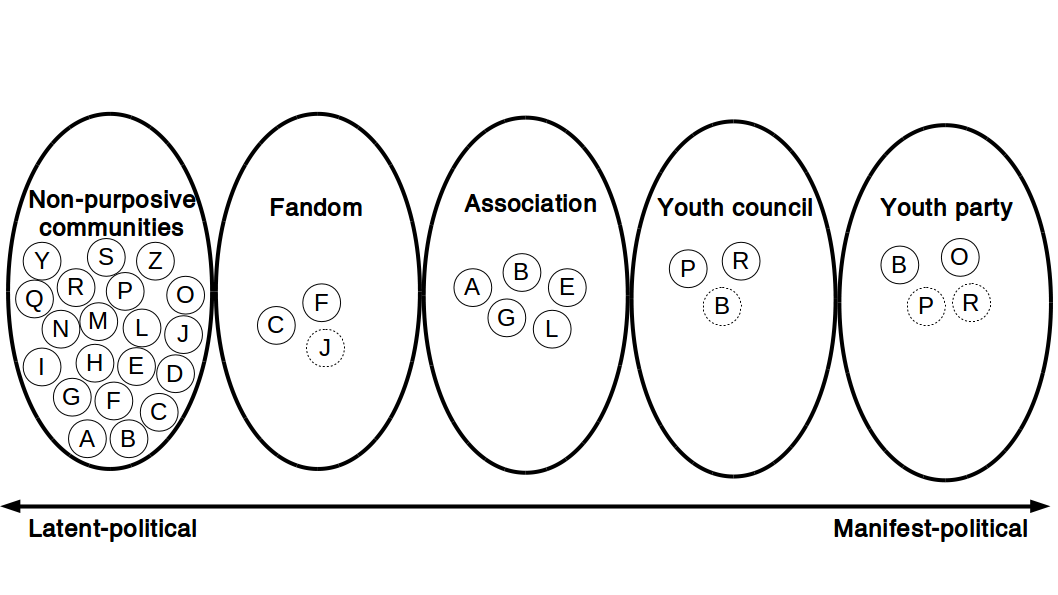
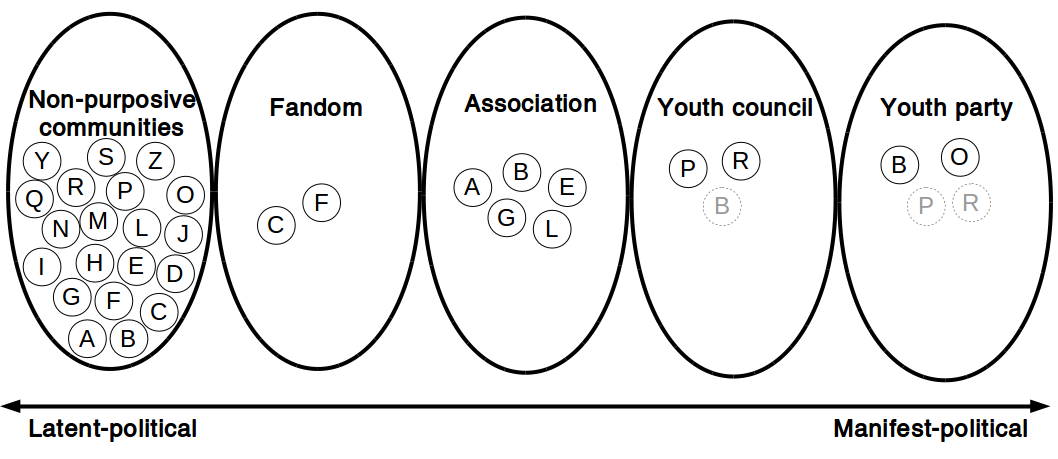
NYRIS 2019

diff --git a/nyris2019.html b/nyris2019.html
@@ -34,17 +34,17 @@
 <h2>Table of Contents</h2>
 <div id="text-table-of-contents">
 <ul>
-<li><a href="#/slide-org198ea6b">Pitfalls in the study of young people's political practices</a></li>
-<li><a href="#/slide-orge0c7fc0">How to explore political practices?</a></li>
-<li><a href="#/slide-orgefe2d6c">Unfolding the political</a></li>
-<li><a href="#/slide-orge1866a4">The political in different youth communities</a></li>
+<li><a href="#/slide-org710db50">Pitfalls in the study of young people's political practices</a></li>
+<li><a href="#/slide-orged7a610">How to explore political practices?</a></li>
+<li><a href="#/slide-orge472997">Unfolding the political</a></li>
+<li><a href="#/slide-org790b3b8">The political in different youth communities</a></li>
 </ul>
 </div>
 </div>
 </section>
 <section>
-<section id="slide-org198ea6b">
-<h2 id="org198ea6b">Pitfalls in the study of young people's political practices</h2>
+<section id="slide-org710db50">
+<h2 id="org710db50">Pitfalls in the study of young people's political practices</h2>
 
 <div class="figure">
 <p><img src="./images/pitfalls.png" alt="pitfalls.png" width="1000px" class="custom" />
@@ -52,21 +52,32 @@
 </div>
 
 <aside class="notes">
-nil
+<ul>
+<li>The first pitfall is to see young people's participatory practices as one generalized social phenomenon instead of seeing it as a class specific and contextualised phenomenon. A generalization could be 'the lazy youth' or 'the engaged youth' - but both generalizations ignore the class specific aspect of young people's political practices.</li>
+<li>The second pitfall is to see young people's participatory practices as a dichotomous phenomenon where the youth are either engaged or disengaged instead of seeing it as a complex and dynamic phenomenon where engagement and disengagement exist side by side.</li>
+<li>Sometimes it's difficult to say whether a specific practice is political or not. There can be practices that on the surface are apolitical, but below the surface something political is going on or is under construction. There can be young people who see themselves as not interested in politics but actually are doing something political.</li>
+<li>The third pitfall is to see young people's participatory practices as a phenomenon observed with old categories instead of exploring it from the youth's point of view today.</li>
+<li>We need to - as a complement to surveys - more explorative approaches with the use of young eyes where the political is not defined on beforehand.</li>
+
+</ul>
+
 </aside>
 
 </section>
 </section>
 <section>
-<section id="slide-orge0c7fc0">
-<h2 id="orge0c7fc0">How to explore political practices?</h2>
+<section id="slide-orged7a610">
+<h2 id="orged7a610">How to explore political practices?</h2>
 <aside class="notes">
-nil
+<p>
+.
+</p>
+
 </aside>
 
 </section>
-<section id="slide-org02d30db" data-background="images/phone_dark.jpg">
-<h3 id="org02d30db"></h3>
+<section id="slide-org5a999ee" data-background="images/phone_dark.jpg">
+<h3 id="org5a999ee"></h3>
 <h3 style="color:white">The photo elicitation interview</h3>
 
 <div style="color:white">
@@ -80,65 +91,92 @@ nil
 
 <aside class="notes">
 <ul>
-<li>To get an insigt into the participatory practices in the everyday life of young people I have used the photo elicitation interview. This is an explorative method - it can explore themes and phenomenons that the researcher don't know on beforehand. The concept is that the participants are asked to make a photo journal of their everyday life and show what is important for them. Then the photo journal form the basis for a qualitative interview with the participant and the photos provide a structure of the interview. Until now 18 interviews have been conducted with youth between 14 and 18 years old from Holbæk Municipality - both young people who are political organised and young people who are not.</li>
+<li>To get an insigt into the participatory practices in the everyday life of young people I have used the photo elicitation interview. This is an explorative method - it can explore themes and phenomenons that the researcher don't know on beforehand. The concept is that the participants are asked to make a photo journal of their everyday life and show what is important for them. Then the photo journal form the basis for a qualitative interview with the participant and the photos provide a structure of the interview.</li>
 <li>A <b>benefit</b> is that the method provides an entrance to how the political may be connected with everyday practices from the perspective of young people. The interview is structured by the photos from the youth - the youth decide what to talk about and how they want to present their every day life.</li>
 <li>A 2nd benefit is that it shows how engagement and an interest in the world we live can exist side by side with political apathy. It shows the how the 'non-engagement' captured by surveys may actually be an engagement.</li>
 <li>A 3rd benefit is that it shows how participatory practices is a differentiated and contexualised phenomenon. It helps connecting the research and theories of youth participation with concrete moments in everyday life practices - a specific moment containing time, space and sociality. The method can provide a bridge between analytical and statistical generalizations and concrete young peoples subjective experiences in concrete contexts.</li>
-<li>There is a <b>challenge</b> with selection bias. The young people have to sign up if they want to participate and in this signup process it can be difficult to handle the selection bias. It's not a question of statistical representativeness, but about securing a broad range of experiences and backgrounds. The selection bias is a challenge for all data collection involving a signup process, but there is something in this method with taking pictures and talking about you and your everyday life is that is more appealing to some than others. I assess the broadness of socio-economic backgrounds to be ok, but I'm e.g. experiencing a gender bias. Out of 18 interviews I have 5 boys and 13 girls.</li>
-<li>A 2nd challenge is the interview technique. Before the interviews I often only know their name, age, gender, where the live and eduction, and maybe they have sent their photo journal on beforehand. So the most of the questions get improvised during the interview. This is the case for many semi-structured interviews, but it's more distinct in this design because you basically don't know who you are talking with before the interview situation.</li>
-<li>A 3rd challenge is to find the needle in the hay stack. Let's take a look on one of my dataset&#x2026;</li>
 
 </ul>
 
 </aside>
+
 </section>
-<section id="slide-org2097e62">
-<h3 id="org2097e62">A continuum of the political (1)</h3>
+<section id="slide-orgb081ef6">
+<h3 id="orgb081ef6">A continuum of the political</h3>
 
 <div class="figure">
 <p><img src="./images/communities1.png" alt="communities1.png" width="1000px" class="custom" />
 </p>
 </div>
-</section>
-<section id="slide-org90f9203">
-<h3 id="org90f9203">A continuum of the political (2)</h3>
 
-<div class="figure">
-<p><img src="./images/communities2.png" alt="communities2.png" width="1000px" class="custom" />
-</p>
-</div>
-</section>
-</section>
-<section>
-<section id="slide-orgefe2d6c">
-<h2 id="orgefe2d6c">Unfolding the political</h2>
-<div class="outline-text-2" id="text-orgefe2d6c">
-</div>
-</section>
-<section id="slide-orgd94bcd2" data-background="images/hverdag_collage2.jpg">
-<h3 id="orgd94bcd2"></h3>
 <aside class="notes">
 <ul>
-<li>This is my dataset containing pictures from the everyday life of my participants. And the good question is where to find participatory practices in all these different everyday life practices?</li>
-<li>A good and bad thing with the everyday life perspective is that we can talk about everything. On the one side there is a lot of stories and experiences in all these picture providing an insight into the everyday life of young people. On the other side it can be difficult to assess what is relevant and what is not.</li>
-<li>The explorative approach is like a like fishing trip where sometimes you get something on the hook and sometimes you don't.</li>
+<li>20 young people from Holbæk Municipality between 14 and 18 years old have participated in the study - and they are a part of different youth communities.
+<ul>
+<li>All the particpants are a part of non-purposive communities: This is friendships and other communities without a specific purpose which</li>
+<li>2 of the participants are a part of fandoms. This is communities who share a common interest in a specific cultural phenomenon, e.g. metal music or cosplay.</li>
+<li>5 of the participants are a part of associations, e.g. sport or scout.</li>
+<li>2 of the participants are a part of a local youth council which is faciliated by the municipality and 1 is former member.</li>
+<li>2 of the particiapnts are a part of a youth party and 2 are former members.</li>
+
+</ul></li>
+<li>I think it's interesting to study political practices across these types of communities instead of just looking at one type of community. With the look across communities we can better see different experiences with the political. These experiences can be placed on a continuum between the latent-political and the manifest-political. Between the political as something hidden and not yet unfolded and the political as something declared and with a clear societal dimension. We can place the communities on this continuum but I will later discuss if this is the right way to see it.</li>
+<li>With the pitfalls I talked about before, the latent-political praticies have been neglected in research and by municipalities and NGOs, but I try in my project to take a closer view on these practies because I think there is a political potential in these practices that maybe also can challenge what we normally see as political.</li>
 
 </ul>
 
 </aside>
 
 </section>
-<section id="slide-org833dda0">
-<h3 id="org833dda0">Analytical themes</h3>
+</section>
+<section>
+<section id="slide-orge472997">
+<h2 id="orge472997">Unfolding the political</h2>
+<aside class="notes">
+<p>
+.
+</p>
+
+</aside>
+
+</section>
+<section id="slide-orgf09fab1" data-background="images/hverdag_collage2.jpg">
+<h3 id="orgf09fab1"></h3>
+<aside class="notes">
+<ul>
+<li>This is my dataset containing pictures from the everyday life of my participants. And the good question is where to find political practices - both latent and manifest - in all these different everyday life practices?</li>
+
+</ul>
+
+</aside>
+
+</section>
+<section id="slide-org8026679">
+<h3 id="org8026679">Analytical themes</h3>
 
 <div class="figure">
 <p><img src="./images/themes.png" alt="themes.png" width="1000px" class="custom" />
 </p>
 </div>
 
+<aside class="notes">
+<ul>
+<li>To unfold the polical I have chosen some analytical themes which is relevant to understand differences and similarities between practices with a potential political aspect - and the differences and similarities between the poltical in the youth communities I described before.</li>
+<li>I will now present three of these themes:
+<ul>
+<li>Expressing ones identity</li>
+<li>Using public space</li>
+<li>Practising critique</li>
+
+</ul></li>
+
+</ul>
+
+</aside>
+
 </section>
-<section id="slide-org46d977f">
-<h3 id="org46d977f">Expressing your identity</h3>
+<section id="slide-org82ffad4">
+<h3 id="org82ffad4">Expressing your identity</h3>
 <div class="column" style="float:left; width:50%">
 
 <div class="figure">
@@ -155,9 +193,21 @@ nil
 </div>
 </div>
 
+<aside class="notes">
+<ul>
+<li>Expressing ones identity is about how the youth visually through cloth, tatoos, trinkets, etc. try to show other what is important for them.</li>
+<li>These two pictures are the first pictures that Clara and Olivia show in the interview. Clara is a part of metal music community - a fandom - and show some festival bracelets. Olivia is a part of a youth party and show a tatoo with a socialistic symbol.</li>
+<li>It's interesting that they both start the interview on the same way - with a photo that show a physical detail in their visual expression about who they are. The difference is that Olivia in the interview tell something about her political identity and Clara about her cultural and social identity.</li>
+<li>But basicly it's the same image - is about appearing as a unique person and engaging in specific aesthetics. These expressions are not necessarily political, but they can be. Clara says later in the interview that some of her band t-shirts have statements and that the choise of apperance is related to something political or society.</li>
+<li>This points towards an observation of fandom and youth party as two forms of subcultural expressions related to the construction of identity rather than an observation of one community that is political and one that is not.</li>
+
+</ul>
+
+</aside>
+
 </section>
-<section id="slide-org090a126">
-<h3 id="org090a126">Using public space</h3>
+<section id="slide-orgd966b5d">
+<h3 id="orgd966b5d">Using public space</h3>
 <div class="column" style="float:left; width:50%">
 
 <div class="figure">
@@ -174,39 +224,91 @@ nil
 </div>
 </div>
 
+<aside class="notes">
+<ul>
+<li>The similarity between fandom and youth party is also expressed in these two photos. Clara is also a part of a subculture called the furry fandom. It's about taking a character of an animal and then be that animal, e.g. get a costume and walk around in the public like the left photo. The right photo is Olivia participating in a demonstration in front of the national parliament against the masking ban.</li>
+<li>Again we have one practice that - on the surface - is apolitical and one political. But again it basicly the same image: Two practices on using public space.</li>
+<li>Clara's action is about making a difference for others and making a positive disturbance of a public space in Holbæk - the central shopping street which is dominated by comsumption and cars. Olivia's action is about telling the public that something is wrong with the rules that the parliament have decided. Both actions demonstrate a will to step forward in the public.</li>
+<li>The two situations also both relate to the same societal event - the decison in the national parliament about the masking ban. These two practices are now perhaps ilegal and can be seen as a protest against some rules that limit individual freedom.</li>
+<li>The difference is that for Clara the masking ban is a potential intervention in her lifeworld and for Olivia it's not something she is personal affected by. For Clara this action is something she just do, for Oliva it's a political action.</li>
+<li>This points towards an observation that the same actions can be framed both as political and as apolitical - that all kind of youth communities move dynamic between the latent-political and the manifest-political.</li>
+
+</ul>
+
+</aside>
+
 </section>
-<section id="slide-org5f02856">
-<h3 id="org5f02856">Practising critique</h3>
+<section id="slide-org77d7665">
+<h3 id="org77d7665">Practising critique</h3>
 <blockquote class="citat">
 <p>
 [&#x2026;] perhaps in the form of my silent protests. For example, after my school psychologist, where she called my parents bypassing me, I refused to use her anymore. Also, my psychiatrist - I was discharged because I don't think group therapy and medicine was a good idea. [&#x2026;] But I might consider, [&#x2026;] when I get it at a distance then just say: 'Hey, it wasn't really a very good experience I had here' or write a critique or write something.
 </p>
 </blockquote>
 
+<aside class="notes">
+<ul>
+<li>The last analytical theme is about practising critique. In the interview with Jonas we talk about his problems with depression and that he is not satisfied with the help he has got from the public sector. I ask if they can hear his critique and he answers&#x2026;</li>
+<li>This is an example among other about critique from the young people about society. I perceive this as latent-political because it's critique formulated as an individual and private practice. There is an initation of something political with protests and writing things down but it's not sure that the instituions can hear this critique. This is not a communtiy practice, but there is a manifest-political potential if it was brough into the public. How can this potential be realised?</li>
+
+</ul>
+
+</aside>
+
 </section>
 </section>
 <section>
-<section id="slide-orge1866a4">
-<h2 id="orge1866a4">The political in different youth communities</h2>
-<div class="outline-text-2" id="text-orge1866a4">
-</div>
+<section id="slide-org790b3b8">
+<h2 id="org790b3b8">The political in different youth communities</h2>
+<aside class="notes">
+<ul>
+<li>Let's take a look again on the different youth communities.</li>
+<li>The question I'm working with now is how individual problems among youth can be transformed into public critique and societal change. We improve our society through critique but which arenas do the youth have to practice critique? The participation in the youth communities that on the surface can be categorized as more manifest-political do not necessarily relate to the practice of critique.</li>
+
+</ul>
+
+</aside>
+
 </section>
-<section id="slide-orgdb86415">
-<h3 id="orgdb86415">One way to see it</h3>
+<section id="slide-org93d6ec4">
+<h3 id="org93d6ec4">One way to see it</h3>
 
 <div class="figure">
 <p><img src="./images/communities3.png" alt="communities3.png" width="1000px" class="custom" />
 </p>
 </div>
 
+<aside class="notes">
+<ul>
+<li>One way to see political practices among youth is as a staircase where 'true' political participation is realised in the party political system and where you become more and more manifest-political by stepping up to another type of community.</li>
+<li>But my interview point towards the observation that we can't make any clear divisions between the latent-political and the manifest-political and that participation in a youth council or a youth party often not is connected to critical experiences but is more a search after a community where you can belong.</li>
+
+</ul>
+
+</aside>
+
 </section>
-<section id="slide-orgc87d437">
-<h3 id="orgc87d437">Another way to see it</h3>
+<section id="slide-org074a73c">
+<h3 id="org074a73c">Another way to see it</h3>
 
 <div class="figure">
 <p><img src="./images/communities4.png" alt="communities4.png" width="1000px" class="custom" />
 </p>
 </div>
+
+<aside class="notes">
+<ul>
+<li>So another way is to:
+<ul>
+<li>see the different youth communities' position on the continuum as dynamic rather than static</li>
+<li>see the youth communities as different forms of youth cultural expressions where one community is not necessarily more manifest-political than another community.</li>
+<li>see a political potential in a broad sprectrum of youth communities.</li>
+
+</ul></li>
+
+</ul>
+
+</aside>
 </section>
 </section>
 </div>
